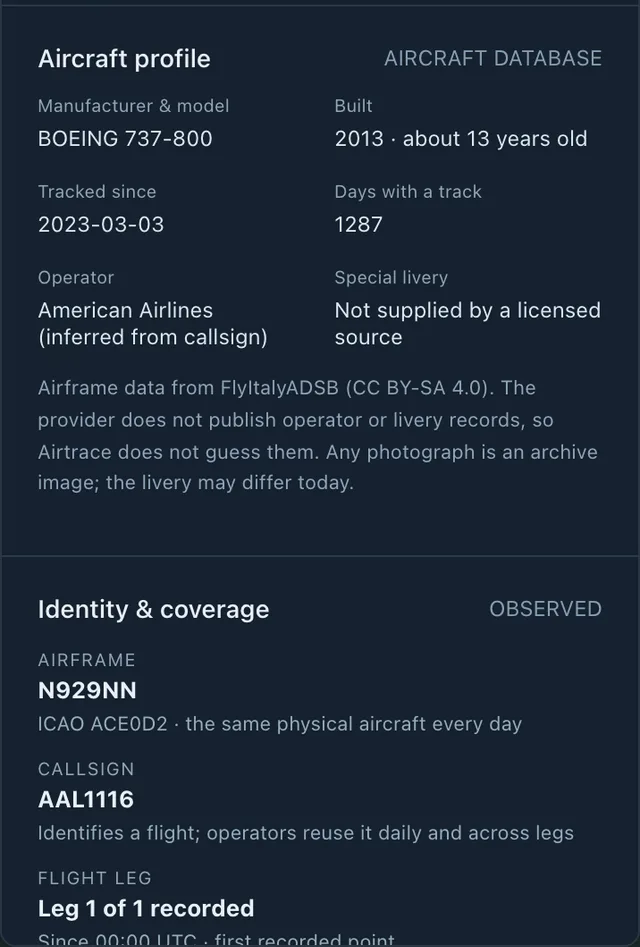
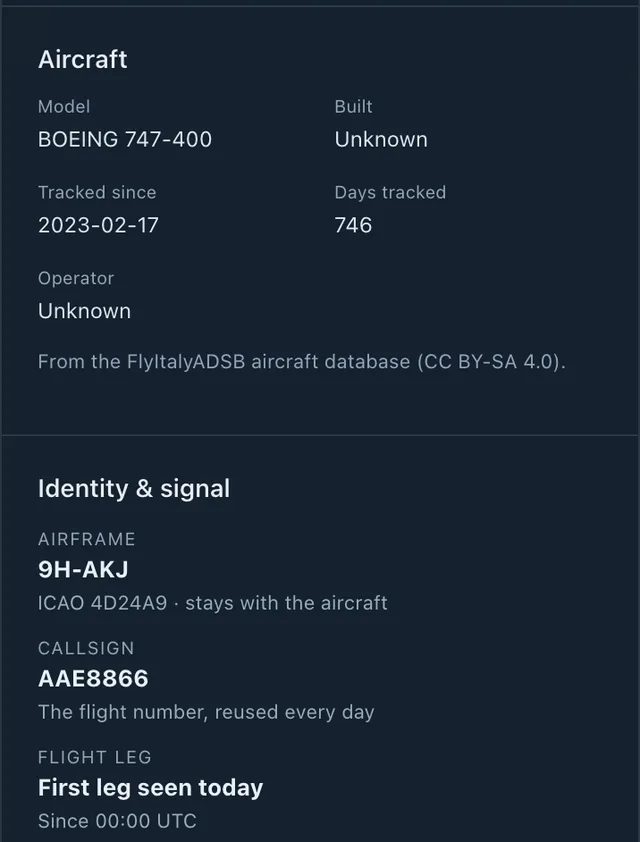
docs: refresh Airtrace screenshots and wording after the copy rewrite
Retake the article screenshots with Airtrace's plainer interface text,
update captions and quoted UI strings to match, and replace the project
subtitle tagline with a plain description.

diff --git a/src/content/portfolio.ts b/src/content/portfolio.ts
@@ -60,7 +60,7 @@ export const portfolio = {
     {
       id: 'airtrace',
       title: 'Airtrace',
-      subtitle: 'A live flight radar that says “probably” when it should.',
+      subtitle: 'A live flight tracker running on Cloudflare Workers.',
       category: 'Side projects',
       tags: ['TypeScript', 'Vue', 'Cloudflare Workers'],
       artwork: 'radar',

diff --git a/content/posts/building-airtrace.md b/content/posts/building-airtrace.md
@@ -8,7 +8,7 @@ draft: false
 
 [Airtrace](https://adsb.avltree9798.co.uk) is a live flight radar I built for myself: a map of aircraft, the detail of each flight, the airports they use and a few tools for plane spotting. It is a Vue 3 and TypeScript single-page app with Leaflet for the map, served by a Cloudflare Worker that fronts community ADS-B feeds.
 
-![Airtrace's live map over New Jersey, with American Airlines flight AAL1452 selected and its telemetry in the side panel](/images/airtrace/map.webp)
+![Airtrace's live map over New Jersey, with the Boeing 747 freighter AAE8866 selected and its telemetry in the side panel](/images/airtrace/map.webp)
 
 _The live map with two-second updates. Map data © OpenStreetMap contributors; aircraft data from FlyItalyADSB (CC BY-SA 4.0)._
 
@@ -53,13 +53,13 @@ Following a flight exposed a quieter bug. Panning the Leaflet map can fire `move
 
 ADS-B identifies the **airframe**, a 24-bit address that stays with the aircraft, and broadcasts a **callsign**, which an airline reuses every day and sometimes for different legs. Neither one tells you where the aircraft is going today.
 
-FlyItalyADSB attaches a usual route to a callsign with its evidence: `count`, how often the callsign flew that pair in the last seven days, and `last_day`. Airtrace grades that evidence. Five or more flights with the latest within two days is strong, three or more within a week is moderate, and anything else is weak. Only strong or moderate evidence fills in the journey estimate automatically; weak evidence becomes a button. Every grade ends with "not a confirmed flight plan for today".
+FlyItalyADSB attaches a usual route to a callsign with its evidence: `count`, how often the callsign flew that pair in the last seven days, and `last_day`. Airtrace grades that evidence. Five or more flights with the latest within two days is strong, three or more within a week is moderate, and anything else is weak. Only strong or moderate evidence fills in the journey estimate automatically; weak evidence becomes a button. Every grade ends with “Today’s flight may be different.”
 
-Legs come from the recorded track. A new leg starts only where the provider marks one, or where consecutive samples less than two minutes apart show the aircraft leaving the ground. A forty-minute gap over the sea is a gap in coverage, not a new flight. The same idea runs through coverage: when an aircraft stops reporting, the card says a landing is possible only if the last position was low and near an airport. Otherwise it reads "most likely a gap in receiver coverage".
+Legs come from the recorded track. A new leg starts only where the provider marks one, or where consecutive samples less than two minutes apart show the aircraft leaving the ground. A forty-minute gap over the sea is a gap in coverage, not a new flight. The same idea runs through coverage: when an aircraft stops reporting, the card says a landing is possible only if the last position was low and near an airport. Otherwise it reads “Probably out of receiver range, not landed.”
 
-![The aircraft card showing the airframe's model and build year, followed by separate airframe, callsign and flight-leg entries](/images/airtrace/card.webp)
+![The aircraft card for a Boeing 747-400 with its build year and operator shown as unknown, followed by separate airframe, callsign and flight-leg entries](/images/airtrace/card.webp)
 
-_Profile and identity for one airframe. The provider supplies the model and build year; it publishes no operator, so the operator is labelled as inferred from the callsign._
+_The aircraft database knew this 747’s model and tracking history but not its build year, and its callsign prefix matches no airline Airtrace knows. Both say “Unknown” instead of a guess._
 
 ## A radar scope in twenty lines
 
@@ -92,17 +92,17 @@ const offsetNm =
 
 After that change JFK showed arrivals on 13L and departures on 13R, which is how it usually runs that configuration. The panel still says this is inference from received tracks, not ATIS.
 
-![The airport explorer for JFK, with runways drawn on the map, nearby aircraft, and inferred arrivals on runways 22L and 22R in the side panel](/images/airtrace/airport.webp)
+![The airport explorer for JFK, with runways drawn on the map, nearby aircraft, and estimated runway use in the side panel](/images/airtrace/airport.webp)
 
-_JFK's runways drawn from OurAirports threshold coordinates (public domain), with live traffic and inferred runway activity._
+_JFK's runways drawn from OurAirports threshold coordinates (public domain), with live traffic and an estimate of the runways in use._
 
 ## Replay that follows the data
 
 The replay steps through recorded positions rather than a model. Trails can be coloured by altitude or speed, and altitude and speed charts share the replay's time axis: the cursor follows playback, and selecting a point on either chart seeks to it. Charts and trails break at gaps of more than five minutes rather than drawing a confident straight line through the missing part.
 
-![Replay paused part-way through a climb out of Philadelphia, with the map in replay mode and altitude and ground-speed charts showing a shared cursor](/images/airtrace/replay.webp)
+![Replay paused part-way along a 747 freighter’s track over Maine, with the trail coloured by speed and altitude and ground-speed charts sharing a cursor](/images/airtrace/replay.webp)
 
-_Replay of a departure from Philadelphia. The white line on both charts marks the replay position._
+_Replay of AAE8866 with the trail coloured by ground speed. The white line on both charts marks the replay position._
 
 A user report caught the most visible bug in this feature: a replayed aircraft pointing north while it flew south-west. When the feed omitted a track, the normaliser had stored `0`, which is a perfectly valid heading. Missing values are now `null`. Replay uses the recorded track, otherwise the bearing between consecutive recorded points (never across a gap), otherwise the last known track.
 
